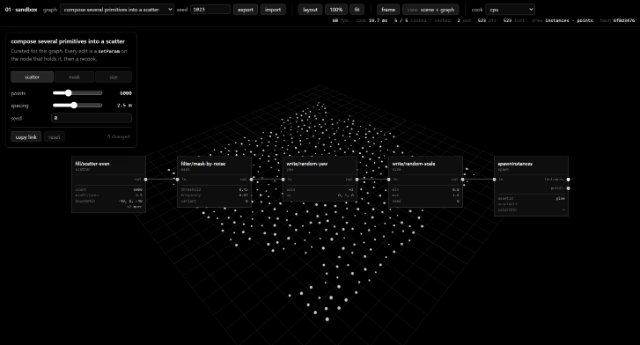
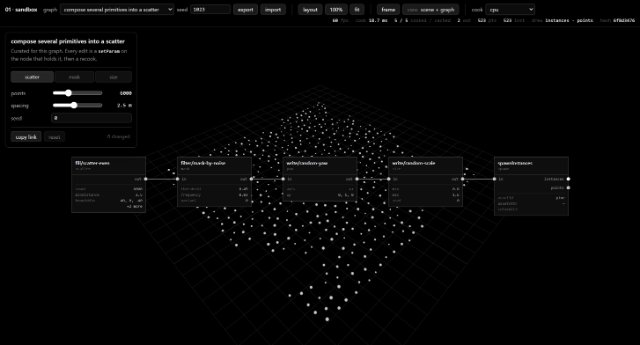
sandbox: node top padding to 10
`PAD_TOP` lands at 10 against `PAD` 8 — two units of optical correction,
which is where tuning it by eye settled. Measured from rendered pixels:
top 10-10.5, left 8, right 8, bottom 8.5.

The comment says what the constant is FOR now — a different measurement
from the sides (cap top versus glyph edge) and the one that gets tuned by
eye — rather than defending a particular value it no longer holds.

npm test: 117 files, 2932 passed. Figures regenerated.

diff --git a/examples/01-sandbox/layout.ts b/examples/01-sandbox/layout.ts
@@ -20,16 +20,15 @@ export const NODE_W = 168;
 export const PAD = 8;
 
 /**
- * Space above the title, and deliberately MORE than `PAD`.
+ * Space above the title, a little more than `PAD`.
  *
- * Metrically equal padding does not read as equal here. The side padding
- * is measured to the edge of a glyph, while the top is measured to the
- * top of the caps — and the eye reads the run of text as a band, so the
- * gap above it needs to be visibly larger before the two look the same.
- * This is an optical correction, not a second opinion about the value:
- * left, right and bottom all still come off `PAD`.
+ * Its own constant partly because it is a different measurement — this
+ * one runs to the top of the CAPS while the side padding runs to the edge
+ * of a glyph — and partly because it is the one that gets tuned by eye.
+ * The two units over `PAD` are an optical correction: a band of text
+ * wants slightly more air above it than beside it to look even.
  */
-export const PAD_TOP = 12;
+export const PAD_TOP = 10;
 
 /** Cap height of the 11px title face, and of the 9px id face below it. */
 const TITLE_CAP = 8;
